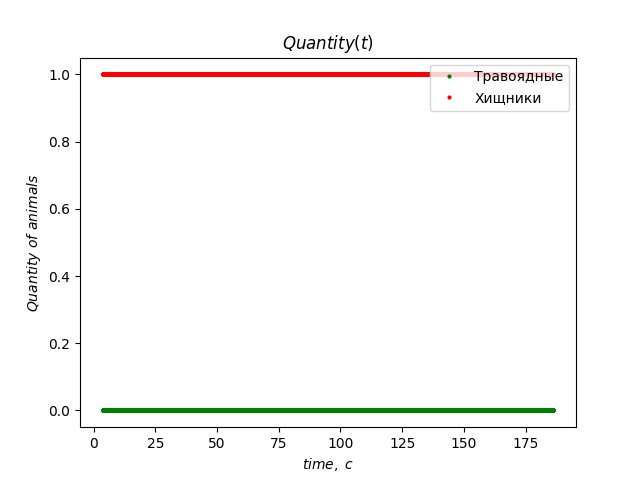
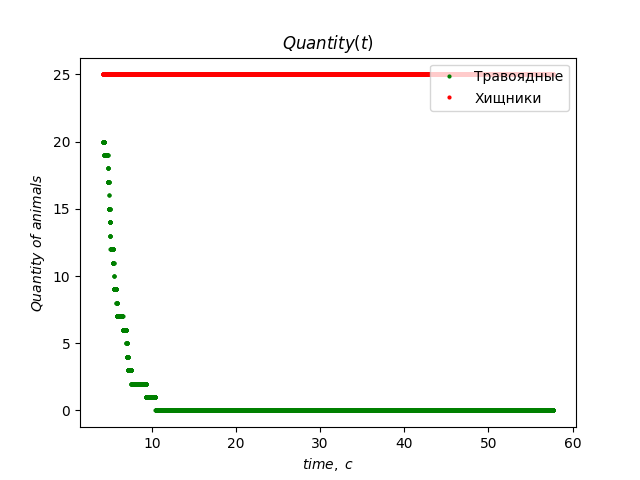
баг смерти от голода

diff --git a/Animals.py b/Animals.py
@@ -34,7 +34,7 @@ class Animal:
         self.velocity_x = 0  # speed x-axis
         self.velocity_y = 0  # speed y-axis
         self.hunger = 0  # represents how hungry the animal is
-        self.thirst = 0  # represents how thirsty the animal is
+        self.thirst = randint(0,30000)  # represents how thirsty the animal is
         self.health = 10000  # represents the health points
         self.mass = 10 ** 3  # mass of the animal
         self.radius = R  # radius of image
@@ -223,7 +223,7 @@ class Predator(Animal):
                 self.velocity_x = self.velocity * math.cos(varphi)
                 self.velocity_y = self.velocity * math.sin(varphi)
                 self.clock.start(2)
-                self.hunger += 1000
+                self.hunger += 10000
                 self.thirst += 2000
 
             if self.state == Predator.st_chase:
